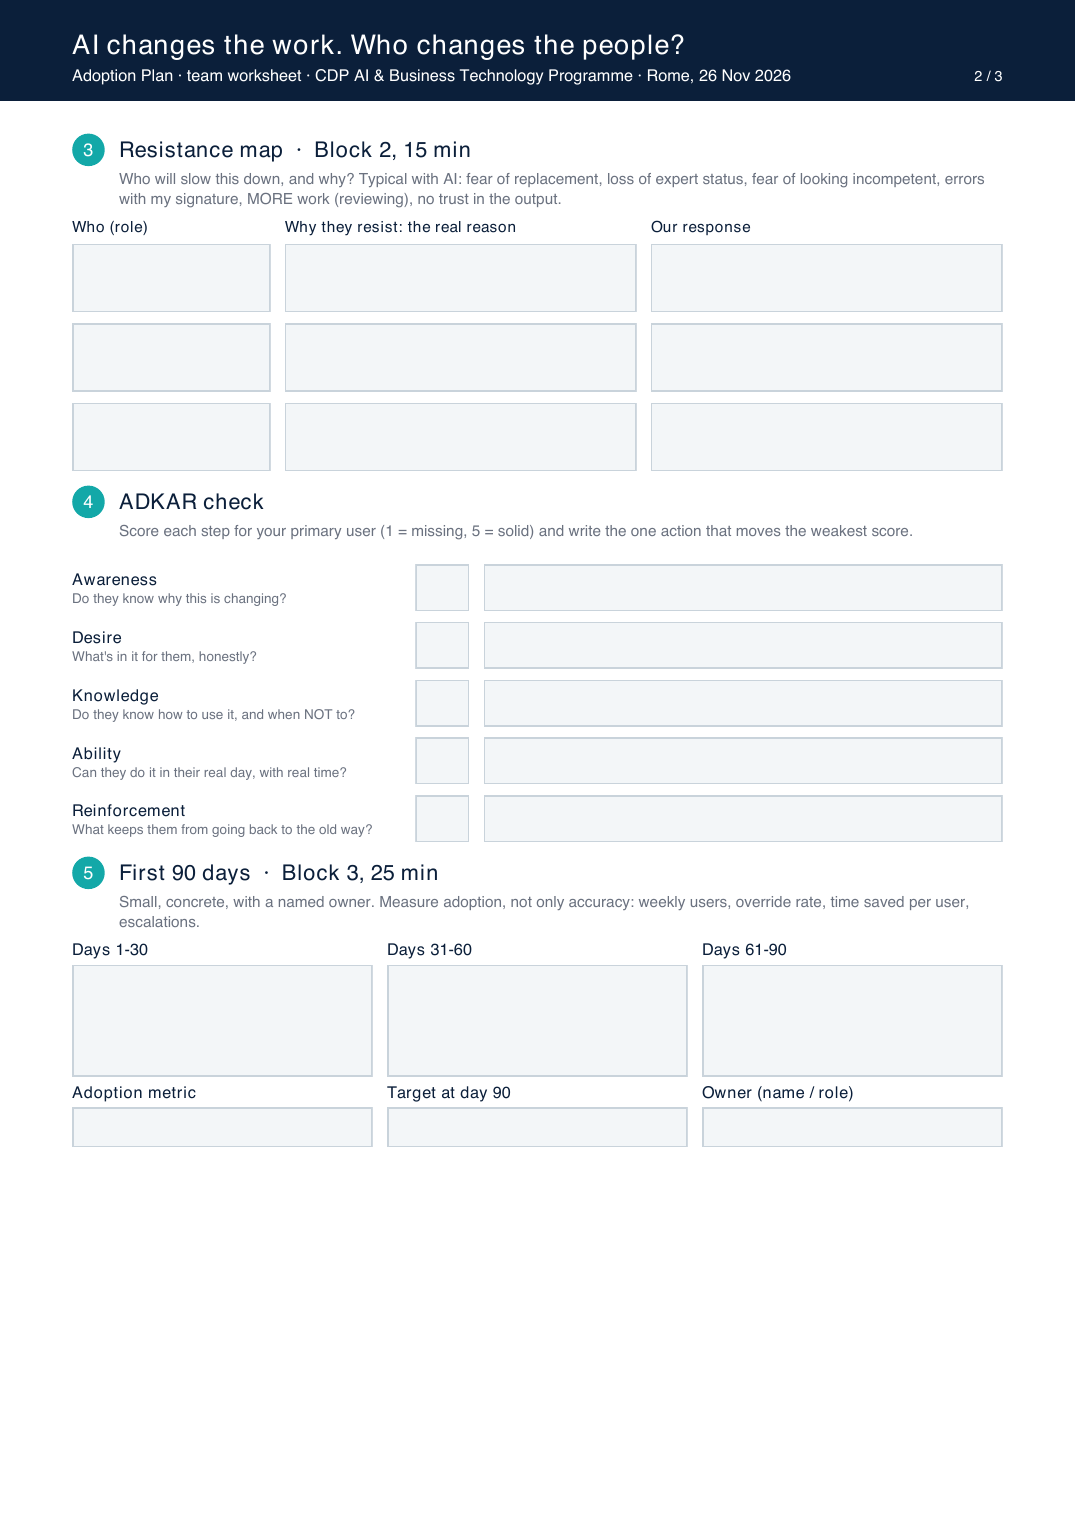
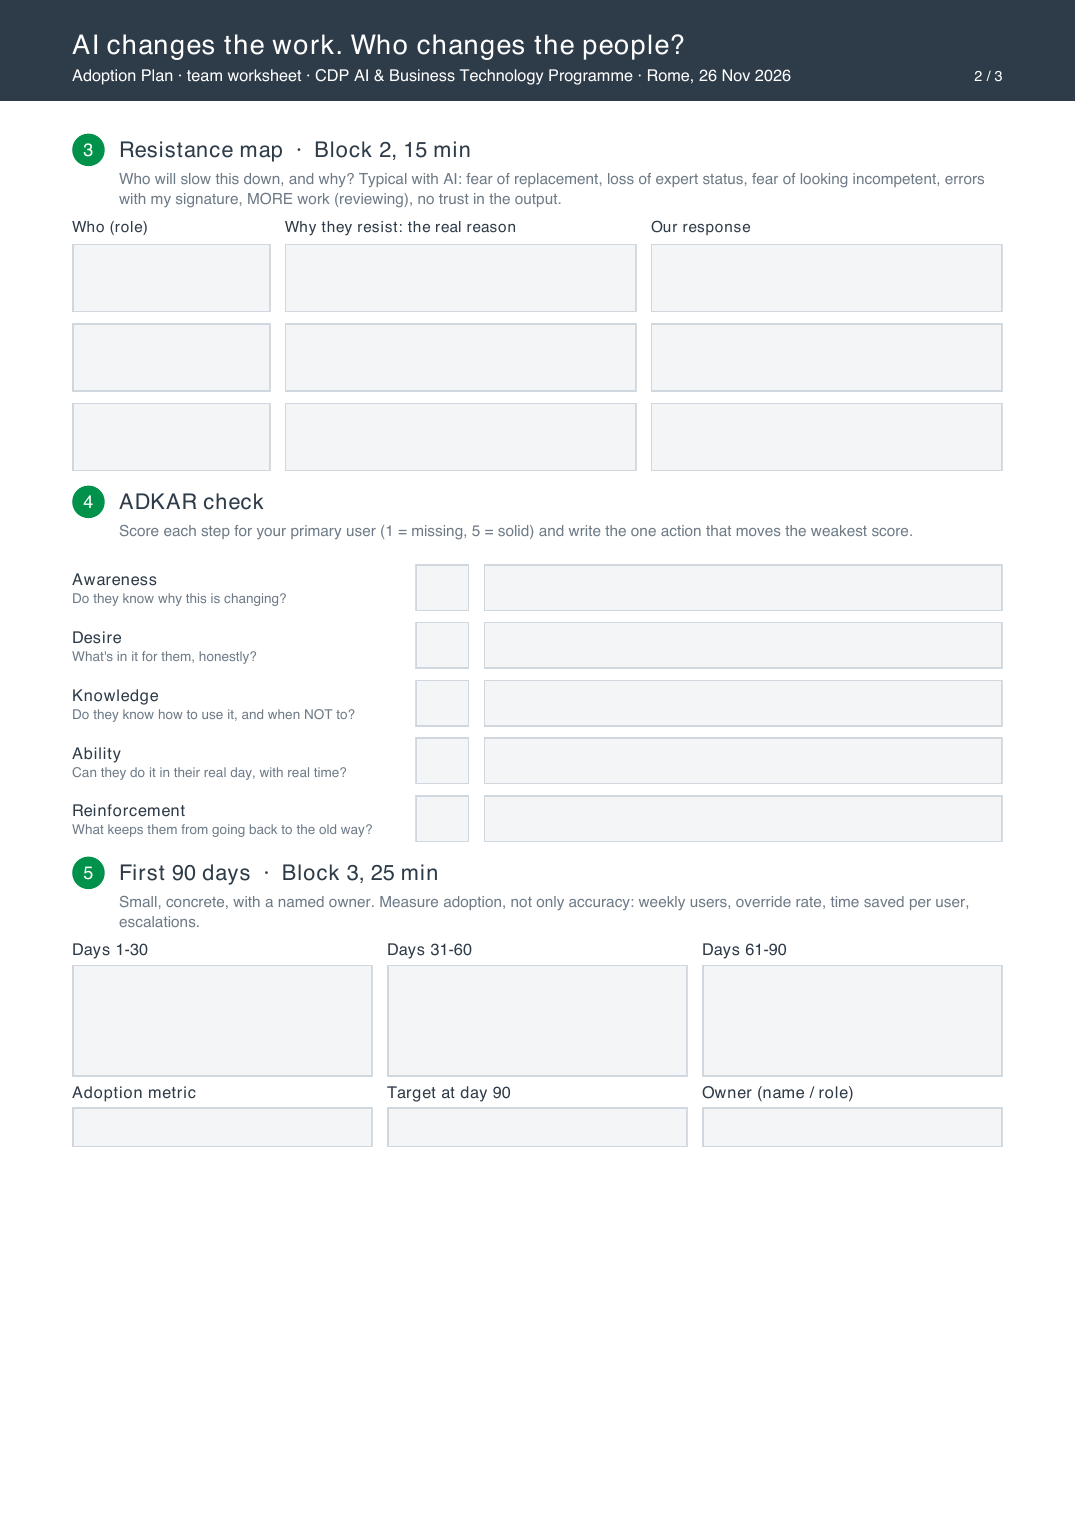
Switch to CDP palette: slate, Italian green and red
Replaces the brass accent inherited from the robotics deck with the
colours of the CDP logo. Worksheet pages re-rendered to match.

Changed region(s): [[0.0, 0.0, 1.0, 0.1236], [0.0614, 0.5562, 0.1228, 0.5871], [0.0614, 0.309, 0.1228, 0.3399]]

diff --git a/index.html b/index.html
@@ -6,8 +6,8 @@
 <title>AI Changes the Work · CDP · Rome</title>
 <style>
 :root {
-  --paper:#F7F4EE; --ink:#1B1B1B; --brass:#B8860B; --rust:#A4441F;
-  --grey:#8A8378; --line:#DED6C7; --paper-2:#EFEAE0; --ink-2:#2A2724;
+  --paper:#F6F7F8; --ink:#2E3B48; --brass:#00924A; --rust:#D0202E;
+  --grey:#6E7B87; --line:#D9DFE5; --paper-2:#ECEFF2; --ink-2:#3A4856;
   --sans:"Optima","Gill Sans","Gill Sans MT","Segoe UI","Helvetica Neue",Helvetica,Arial,sans-serif;
 }
 * { margin:0; padding:0; box-sizing:border-box; }
@@ -34,7 +34,7 @@ body.dark-slide { background:var(--ink); }
 
 /* dark slides */
 .negro, .chapter, .cover-dark { color:var(--paper); }
-.negro .sub, .chapter .sub { color:#B9B2A6; }
+.negro .sub, .chapter .sub { color:#AEB8C2; }
 .negro .sub strong, .chapter .sub strong { color:var(--paper); }
 .negro .gigante, .negro .statement { text-align:center; }
 .negro .inner { text-align:center; }
@@ -48,7 +48,7 @@ body.dark-slide { background:var(--ink); }
 .lista .n { color:var(--brass); font-size:.6em; letter-spacing:.12em; font-weight:700; }
 .lista.compact li { font-size:clamp(16px,2vw,25px); padding:1.1vh 0; }
 .lista li small { display:block; grid-column:2; font-size:.62em; color:var(--grey); margin-top:-.6em; }
-.negro .lista li { border-color:#3A3631; }
+.negro .lista li { border-color:#4A5866; }
 
 .step { opacity:0; transform:translateY(14px); transition:opacity .35s ease, transform .35s ease; }
 .step.on { opacity:1; transform:none; }
@@ -73,7 +73,7 @@ body.dark-slide { background:var(--ink); }
 .quote { font-size:clamp(24px,3.1vw,42px); line-height:1.3; font-style:italic; }
 .quote .it-orig { display:block; font-size:.6em; color:var(--grey); margin-top:2.5vh; font-style:normal; }
 .quote .who { display:block; font-style:normal; font-size:.45em; color:var(--grey); margin-top:2.5vh; letter-spacing:.06em; }
-.negro .quote .who, .negro .quote .it-orig { color:#B9B2A6; }
+.negro .quote .who, .negro .quote .it-orig { color:#AEB8C2; }
 
 /* hands-up discussions */
 .practice-top .kicker { color:var(--rust); }
@@ -82,7 +82,7 @@ body.dark-slide { background:var(--ink); }
 .practice-flow { display:grid; grid-template-columns:repeat(3,1fr); gap:1.2vw; margin-top:3.5vh; counter-reset:opt; }
 .practice-flow span { border:1.5px solid var(--line); background:#fff; padding:2.2vh 1.3vw; font-size:clamp(15px,1.55vw,20px); line-height:1.35; counter-increment:opt; transition:all .35s; }
 .practice-flow span::before { content:counter(opt, upper-alpha); display:block; color:var(--brass); font-weight:700; font-size:.75em; letter-spacing:.14em; margin-bottom:.8vh; }
-.shift-practice:has(.practice-reveal.on) .practice-flow span[data-answer] { border-color:var(--brass); background:#FBF3DD; }
+.shift-practice:has(.practice-reveal.on) .practice-flow span[data-answer] { border-color:var(--brass); background:#E5F4EC; }
 .shift-practice:has(.practice-reveal.on) .practice-flow span:not([data-answer]) { opacity:.4; }
 .practice-reveal { margin-top:3vh; border-left:3px solid var(--brass); padding-left:1.4vw; }
 .practice-reveal b { font-size:clamp(12px,1vw,14px); letter-spacing:.14em; text-transform:uppercase; color:var(--brass); }
@@ -146,13 +146,13 @@ body.is-blackout .blackout { display:block; }
 
 
 /* CRT flicker (Ferrovial engine), recoloured in CDP brass */
-.crt-accent { --crt-color:#B8860B; --crt-stripe:#8C6508;
+.crt-accent { --crt-color:#00924A; --crt-stripe:#006B36;
   position:relative; display:inline-block; white-space:nowrap; padding-inline-end:.12em; margin-inline-end:-.12em;
   color:var(--crt-color); -webkit-text-fill-color:transparent;
   background:repeating-linear-gradient(0deg,var(--crt-color) 0px,var(--crt-color) 2px,var(--crt-stripe) 2px,var(--crt-stripe) 3px);
-  -webkit-background-clip:text; background-clip:text; filter:drop-shadow(0 0 5px #B8860B30); }
-.negro .crt-accent, .chapter .crt-accent { --crt-color:#D9A520; --crt-stripe:#A57A10; }
-.crt-accent.crt-rust { --crt-color:#A4441F; --crt-stripe:#7A2F14; }
+  -webkit-background-clip:text; background-clip:text; filter:drop-shadow(0 0 5px #00924A25); }
+.negro .crt-accent, .chapter .crt-accent { --crt-color:#3CC07E; --crt-stripe:#2A9A62; }
+.crt-accent.crt-rust { --crt-color:#D0202E; --crt-stripe:#9E1822; }
 .crt-accent::before,.crt-accent::after { content:attr(data-text); position:absolute; inset:0; pointer-events:none; opacity:0; background:none; -webkit-text-fill-color:currentColor; }
 .crt-accent::before { color:#1FB8B2; text-shadow:2px 0 #1FB8B270; }
 .crt-accent::after { color:#D4307F; text-shadow:-2px 0 #D4307F70; }
@@ -166,13 +166,13 @@ body.is-blackout .blackout { display:block; }
 @media (prefers-reduced-motion:reduce) { .crt-accent { background:none; -webkit-text-fill-color:currentColor; filter:none; animation:none !important; } }
 
 /* Full-bleed photos with a slow Ken Burns zoom */
-.slide.foto { padding:0; background:#0d0c0b; }
+.slide.foto { padding:0; background:#1F2933; }
 .slide.foto > img { position:absolute; inset:0; width:100%; height:100%; object-fit:cover; }
 .slide.foto.contain > img { object-fit:contain; padding:5vh 5vw 9vh; }
 .slide.foto.on > img { animation:kenburns 14s cubic-bezier(.2,.7,.2,1) both; }
 @keyframes kenburns { from { transform:scale(1.14); filter:brightness(.6); } 25% { filter:brightness(1); } to { transform:scale(1); } }
-.foto .cap { position:absolute; left:6vw; bottom:9vh; max-width:70vw; color:#F7F4EE; font-size:clamp(22px,3vw,42px); line-height:1.2; font-weight:600; text-shadow:0 3px 18px rgba(0,0,0,.85); }
-.foto .cap small { display:block; font-size:.45em; letter-spacing:.16em; text-transform:uppercase; color:#D9A520; margin-bottom:1.2vh; font-weight:700; }
+.foto .cap { position:absolute; left:6vw; bottom:9vh; max-width:70vw; color:#F6F7F8; font-size:clamp(22px,3vw,42px); line-height:1.2; font-weight:600; text-shadow:0 3px 18px rgba(0,0,0,.85); }
+.foto .cap small { display:block; font-size:.45em; letter-spacing:.16em; text-transform:uppercase; color:#3CC07E; margin-bottom:1.2vh; font-weight:700; }
 .credit { position:absolute; right:2vw; bottom:5vh; font-size:10px; color:rgba(247,244,238,.6); letter-spacing:.04em; z-index:3; }
 .split .credit, .slide:not(.foto):not(.zoomtour) .credit { color:var(--grey); }
 
@@ -183,14 +183,14 @@ body.is-blackout .blackout { display:block; }
 .slide.on .split .ph img { animation:kenburns 16s cubic-bezier(.2,.7,.2,1) both; }
 
 /* Zoom tour: each click flies the camera to a detail */
-.slide.zoomtour { background:#0d0c0b; padding:5vh 4vw 11vh; flex-direction:column; }
+.slide.zoomtour { background:#1F2933; padding:5vh 4vw 11vh; flex-direction:column; }
 .zt-clip { display:inline-block; overflow:hidden; line-height:0; box-shadow:0 20px 60px rgba(0,0,0,.5); }
 .zt-img { display:block; max-height:72vh; max-width:88vw; width:auto; height:auto; transform-origin:50% 50%; transition:transform 1.6s cubic-bezier(.65,0,.25,1); }
-.zt-cap { margin-top:3vh; color:#F7F4EE; font-size:clamp(18px,2.2vw,30px); line-height:1.3; text-align:center; max-width:1000px; min-height:2.6em; }
-.zt-cap b { color:#D9A520; font-weight:600; }
-.zt-cap small { display:block; font-size:.5em; letter-spacing:.16em; text-transform:uppercase; color:#B9B2A6; margin-bottom:.8vh; }
+.zt-cap { margin-top:3vh; color:#F6F7F8; font-size:clamp(18px,2.2vw,30px); line-height:1.3; text-align:center; max-width:1000px; min-height:2.6em; }
+.zt-cap b { color:#3CC07E; font-weight:600; }
+.zt-cap small { display:block; font-size:.5em; letter-spacing:.16em; text-transform:uppercase; color:#AEB8C2; margin-bottom:.8vh; }
 .zoomtour .step.zt { display:none; }
-.zoomtour.sheet .zt-clip { display:flex; align-items:center; justify-content:center; width:min(72vw,1150px); height:70vh; background:#F7F4EE; }
+.zoomtour.sheet .zt-clip { display:flex; align-items:center; justify-content:center; width:min(72vw,1150px); height:70vh; background:#F6F7F8; }
 .zoomtour.sheet .zt-img { width:100%; max-width:none; max-height:none; flex:none; }
 .surnames { display:grid; grid-template-columns:repeat(4,1fr); gap:1.4vw; margin-top:4vh; }
 .surnames div { background:#fff; border:1px solid var(--line); padding:2.2vh 1.2vw; }
@@ -202,15 +202,15 @@ body.is-blackout .blackout { display:block; }
 .obj-out { display:inline-block; margin-top:3.5vh; font-size:clamp(13px,1.2vw,16px); letter-spacing:.14em; text-transform:uppercase; color:var(--brass); font-weight:700; border:1.5px solid var(--brass); padding:1vh 1.2vw; }
 .bundle { display:grid; grid-template-columns:repeat(5,1fr); gap:1vw; margin-top:4vh; }
 .bundle div { border:1.5px solid var(--line); background:#fff; padding:2.4vh 1vw; text-align:center; font-size:clamp(14px,1.5vw,20px); line-height:1.3; transition:all .4s; }
-.bundle div.ai { border-color:var(--brass); background:#FBF3DD; }
+.bundle div.ai { border-color:var(--brass); background:#E5F4EC; }
 
-.film { background:#0d0c0b; flex-direction:column; }
+.film { background:#1F2933; flex-direction:column; }
 .film .frame { position:relative; width:min(78vw,calc(68vh*16/9)); aspect-ratio:16/9; background:#000 center/cover no-repeat; box-shadow:0 20px 60px rgba(0,0,0,.5); }
 .film .frame iframe { position:absolute; inset:0; width:100%; height:100%; border:0; }
-.film .play { position:absolute; inset:0; margin:auto; width:fit-content; height:fit-content; font:inherit; font-size:clamp(16px,1.6vw,22px); letter-spacing:.08em; background:rgba(27,27,27,.85); color:#F7F4EE; border:1.5px solid #D9A520; padding:1.6vh 2vw; cursor:pointer; }
-.film .play:hover { background:#B8860B; }
-.film .film-cap { margin-top:2.5vh; color:#B9B2A6; font-size:clamp(13px,1.2vw,16px); letter-spacing:.06em; text-align:center; }
-.film .film-cap b { color:#F7F4EE; }
+.film .play { position:absolute; inset:0; margin:auto; width:fit-content; height:fit-content; font:inherit; font-size:clamp(16px,1.6vw,22px); letter-spacing:.08em; background:rgba(27,27,27,.85); color:#F6F7F8; border:1.5px solid #3CC07E; padding:1.6vh 2vw; cursor:pointer; }
+.film .play:hover { background:#00924A; }
+.film .film-cap { margin-top:2.5vh; color:#AEB8C2; font-size:clamp(13px,1.2vw,16px); letter-spacing:.06em; text-align:center; }
+.film .film-cap b { color:#F6F7F8; }
 
 @media (max-width:760px) {
   .clips, .practice-flow, .dos, .exercise, .boxes, .split, .surnames { grid-template-columns:1fr; }
@@ -338,7 +338,7 @@ body.is-blackout .blackout { display:block; }
 <section class="slide negro" data-chapter="Dave · a short film" data-title="Dave"><div class="inner">
   <div class="kicker">A short film</div>
   <div class="gigante">Dave.</div>
-  <div class="sub">A veteran programmer argues with a voice. By the end, you realise it is the AI.<br><a href="https://x.com/ashen_one/status/2123230920626884849" target="_blank" style="color:#D9A520">▶ Watch the film</a></div>
+  <div class="sub">A veteran programmer argues with a voice. By the end, you realise it is the AI.<br><a href="https://x.com/ashen_one/status/2123230920626884849" target="_blank" style="color:#3CC07E">▶ Watch the film</a></div>
 </div></section>
 
 <section class="slide steps" data-title="Questions after Dave"><div class="inner">
@@ -635,12 +635,12 @@ body.is-blackout .blackout { display:block; }
   <div class="kicker">The J-curve</div>
   <div class="statement">After a new technology arrives, measured productivity <strong>first goes down.</strong></div>
   <svg viewBox="0 0 800 220" style="width:100%;max-width:900px;margin-top:3vh" aria-label="J-curve">
-    <line x1="40" y1="110" x2="780" y2="110" stroke="#DED6C7" stroke-width="2"/>
-    <path d="M40 110 C 160 110, 200 190, 300 185 S 520 120, 600 60 S 720 10, 780 5" fill="none" stroke="#B8860B" stroke-width="5"/>
-    <circle cx="300" cy="185" r="8" fill="#A4441F"/>
-    <text x="250" y="215" fill="#A4441F" font-size="18" font-family="Optima, sans-serif">where pilots get cancelled</text>
-    <text x="40" y="100" fill="#8A8378" font-size="16" font-family="Optima, sans-serif">today</text>
-    <text x="560" y="105" fill="#8A8378" font-size="16" font-family="Optima, sans-serif">the payoff</text>
+    <line x1="40" y1="110" x2="780" y2="110" stroke="#D9DFE5" stroke-width="2"/>
+    <path d="M40 110 C 160 110, 200 190, 300 185 S 520 120, 600 60 S 720 10, 780 5" fill="none" stroke="#00924A" stroke-width="5"/>
+    <circle cx="300" cy="185" r="8" fill="#D0202E"/>
+    <text x="250" y="215" fill="#D0202E" font-size="18" font-family="Optima, sans-serif">where pilots get cancelled</text>
+    <text x="40" y="100" fill="#6E7B87" font-size="16" font-family="Optima, sans-serif">today</text>
+    <text x="560" y="105" fill="#6E7B87" font-size="16" font-family="Optima, sans-serif">the payoff</text>
   </svg>
   <div class="sub step">Learning and redesign take time. <strong>Warn your sponsor before the dip.</strong></div>
   <div class="src">Source: Brynjolfsson, Rock &amp; Syverson, 2021</div>
